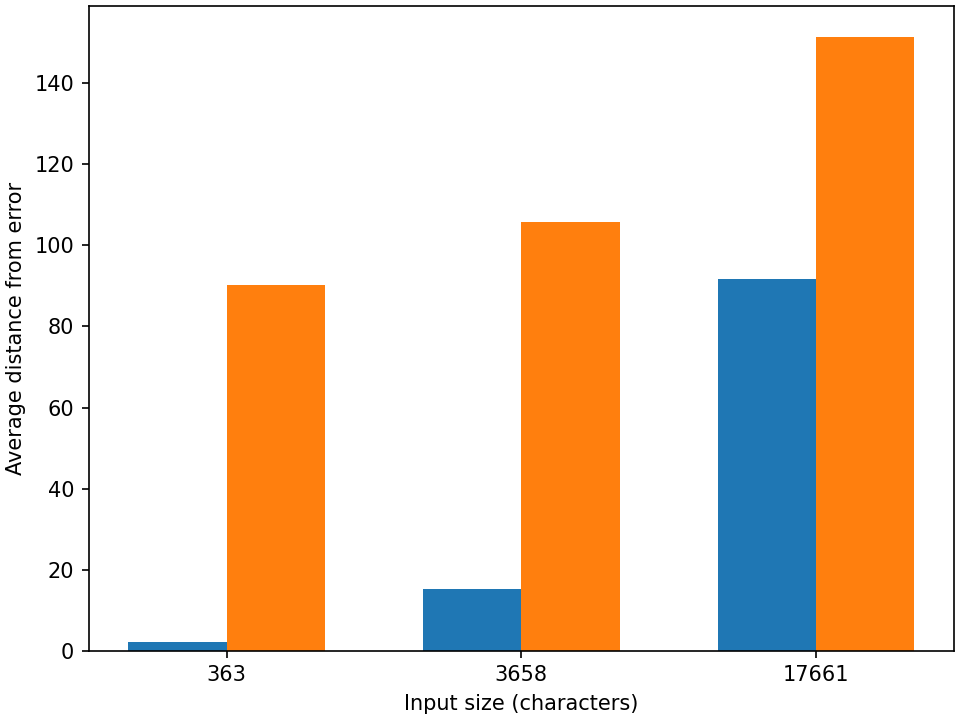
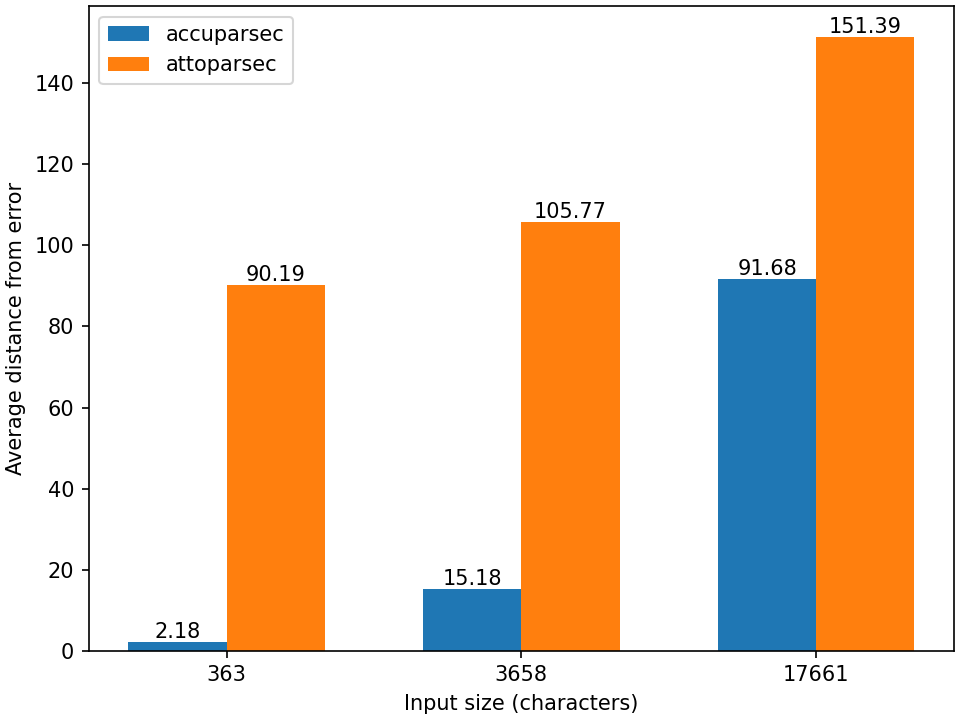
Added plot

diff --git a/plot/plot_err.py b/plot/plot_err.py
@@ -16,8 +16,8 @@ import numpy as np
 # 17661
 # 90567
 # 151389
-# accu = [1.35, 14.26, 90.57] 
-# atto = [90.19, 105.77, 151.39]
+accu = [1.35, 14.26, 90.57] 
+atto = [90.19, 105.77, 151.39]
 
 # k = 1
 # "progs/err-eval.gcl"
@@ -35,8 +35,8 @@ import numpy as np
 # 17661
 # 91678
 # 151389
-accu = [2.18, 15.18, 91.68]
-atto = [90.19, 105.77, 151.39]
+# accu = [2.18, 15.18, 91.68]
+# atto = [90.19, 105.77, 151.39]
 
 
 lengths = ["363", "3658", "17661"]
@@ -52,8 +52,12 @@ ax.bar(indices + width/2, atto, width, label='attoparsec')
 ax.set_xticks(indices)
 ax.set_xticklabels(lengths)
 
+for i in range(len(accu)):
+    plt.text(i - width/2, accu[i]+1, accu[i], ha='center')
+    plt.text(i + width/2, atto[i]+1, atto[i], ha='center')
+
 ax.set_ylabel("Average distance from error")
 ax.set_xlabel("Input size (characters)", usetex=False)
-
+ax.legend()
 fig.savefig("plot/err.png")
 # fig.show()
